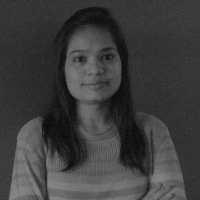
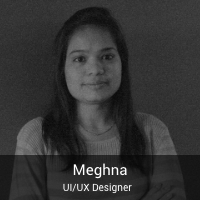
sadique | the team page design

Changed region(s): [[0.0, 0.75, 1.0, 1.0]]

diff --git a/styles/new-style.css b/styles/new-style.css
@@ -714,7 +714,7 @@ button.toast-close-button{padding:0;cursor:pointer;background:transparent;border
[5 lines of base64/hex data omitted]
 #toast-container.toast-top-center > div,
 #toast-container.toast-bottom-center > div{width:300px;margin:auto;}
 #toast-container.toast-top-full-width > div,
@@ -1131,9 +1131,9 @@ ul.reportint-list li {
 .theTeam h1{font-size:50px;font-family:'CambriaRegular';color:#26263A;position:relative;margin-bottom:65px;margin-top:0px;}
 .theTeam h1:after{position:absolute;width:80px;height:4px;background:var(--secondry-color);bottom:0;left:41%;content:"";top:56px;}
 .theTeam .product-info{font-size:18px;line-height:30px;margin:0;width:59%;vertical-align:middle;float:left;}
-.list_team{margin:0;padding:0;}
-.list_team li{display:inline-block;}
-figure.member{width:200px;height:200px;overflow:hidden;display:inline-block;margin-right:31px;margin-bottom:30px;position:relative;font-family:'CambriaRegular';}
+.list_team{margin: 0;padding: 0;display: flex;flex-wrap: wrap;justify-content: space-around;}
+.list_team li{display:inline-block;width: 200px;}
+figure.member{width:200px;height:200px;overflow:hidden;display:inline-block;margin-bottom:30px;position:relative;font-family:'CambriaRegular';}
 figure.member .member-footer{position:absolute;bottom:0;left:0;width:100%;background:rgba(4, 4, 4,0.6);padding:5px;color:#FFF;text-align:center;margin-bottom:0;line-height:16px;}
 .member-footer .name{font-size:15px;display:block;}
 .member-footer .designation{font-size:10px;}
@@ -1671,7 +1671,6 @@ div{box-sizing:border-box;}
 .d-flex{display:flex;flex-direction:column-reverse;}
 #transparency{padding-bottom:60px;}
 .founder .name{font-size:18px;}
-figure.member{margin-right:0;margin-bottom:0;}
 .about-content-body .mentors-info p{padding-right:0;}
 figure.member:last-child{margin-right:0 !important;}
 .about-content-body .mentors-info p span{font-size:18px;}

diff --git a/about.php b/about.php
@@ -596,137 +596,187 @@
                                                                   <img src="../assets/images/team/alok.png" alt="">
                                                                   <p class="member-footer">
                                                                         <span class="name">Alok</span>
-                                                                        <span class="designation">Product Associate  </span>
+                                                                        <span class="designation">Brand Head</span>
                                                                         </p>
                                                             </figure>
                                                             </li>
                                                             <li>
                                                                         <figure class="member">
+                                                                              <img src="../assets/images/team/sheba.png" alt="">
+                                                                              <p class="member-footer">
+                                                                                    <span class="name">Sheba</span>
+                                                                                    <span class="designation">Product Consultant</span>
+                                                                                    </p>
+                                                                        </figure>
+                                                            </li>
+                                                            <li>
+                                                                        <figure class="member">
+                                                                              <img src="../assets/images/team/fabien-varghese.png" alt="">
+                                                                              <p class="member-footer">
+                                                                                    <span class="name">Faiben</span>
+                                                                                    <span class="designation">Senior Sales Representative</span>
+                                                                                    </p>
+                                                                        </figure>
+                                                            </li>
+                                                            <li>
+                                                                        <figure class="member">
+                                                                              <img src="../assets/images/team/naman.png" alt="">
+                                                                              <p class="member-footer">
+                                                                                    <span class="name">Naman</span>
+                                                                                    <span class="designation">Sales Tyrant</span>
+                                                                                    </p>
+                                                                        </figure>
+                                                            </li>
+
+                                                            <li>
+                                                                        <figure class="member">
+                                                                              <img src="../assets/images/team/meghna.png" alt="">
+                                                                              <p class="member-footer">
+                                                                                    <span class="name">Meghna</span>
+                                                                                    <span class="designation">UI/UX Designer</span>
+                                                                                    </p>
+                                                                        </figure>
+                                                            </li>
+
+                                                            <li>
+                                                                        <figure class="member">
                                                                               <img src="../assets/images/team/gaurav.png" alt="">
                                                                               <p class="member-footer">
                                                                                     <span class="name">Gaurav</span>
-                                                                                    <span class="designation">Web Development Engineer</span>
+                                                                                    <span class="designation">Software Developer</span>
                                                                                     </p>
                                                                         </figure>
                                                             </li>
+
                                                             <li>
                                                                         <figure class="member">
-                                                                              <img src="../assets/images/team/nidhi.png" alt="">
+                                                                              <img src="../assets/images/team/aditya-soni.png" alt="">
                                                                               <p class="member-footer">
-                                                                                    <span class="name">Nidhi</span>
-                                                                                    <span class="designation">Programmer & Database Architect</span>
+                                                                                    <span class="name">Aditya</span>
+                                                                                    <span class="designation">Java Developer</span>
                                                                                     </p>
                                                                         </figure>
                                                             </li>
+
                                                             <li>
                                                                         <figure class="member">
-                                                                              <img src="../assets/images/team/mayank.png" alt="">
+                                                                              <img src="../assets/images/team/leena.png" alt="">
                                                                               <p class="member-footer">
-                                                                                    <span class="name">Mayank</span>
-                                                                                    <span class="designation">Software Engineer</span>
+                                                                                    <span class="name">Leena</span>
+                                                                                    <span class="designation">Java Developer</span>
                                                                                     </p>
                                                                         </figure>
                                                             </li>
+
                                                             <li>
-                                                                        <figure class="member m-r-zero">
-                                                                              <img src="../assets/images/team/sagar.png" alt="">
+                                                                        <figure class="member">
+                                                                              <img src="../assets/images/team/arpit.png" alt="">
                                                                               <p class="member-footer">
-                                                                                    <span class="name">Sagar</span>
-                                                                                    <span class="designation">QA Specialist</span>
+                                                                                    <span class="name">Arpit</span>
+                                                                                    <span class="designation">Sr. Software Developer</span>
+                                                                                    </p>
+                                                                        </figure>
+                                                            </li>
+
+                                                            <li>
+                                                                        <figure class="member">
+                                                                              <img src="../assets/images/team/shalini.png" alt="">
+                                                                              <p class="member-footer">
+                                                                                    <span class="name">Shalini</span>
+                                                                                    <span class="designation">UI Developer</span>
                                                                                     </p>
                                                                         </figure>
                                                             </li>
                                                   
                                                             <li>
                                                                   <figure class="member">
-                                                                        <img src="../assets/images/team/mustafa.png" alt="">
+                                                                        <img src="../assets/images/team/rohit.png" alt="">
                                                                         <p class="member-footer">
-                                                                              <span class="name">Mustafa</span>
-                                                                              <span class="designation">UI/UX Designer and Developer</span>
+                                                                              <span class="name">Rohit</span>
+                                                                              <span class="designation">Software Developer</span>
                                                                               </p>
                                                                   </figure>
                                                             </li>
                                                             <li>
                                                                   <figure class="member">
-                                                                        <img src="../assets/images/team/aditya.png" alt="">
+                                                                        <img src="../assets/images/team/sadique-sheikh.png" alt="">
+                                                                        <p class="member-footer">
+                                                                              <span class="name">Sadique</span>
+                                                                              <span class="designation">UI/UX & Frontend Developer</span>
+                                                                              </p>
+                                                                  </figure>
+                                                            </li>
+                                                            <li>
+                                                                  <figure class="member">
+                                                                        <img src="../assets/images/team/shubham.png" alt="">
+                                                                        <p class="member-footer">
+                                                                              <span class="name">Shubham</span>
+                                                                              <span class="designation">Full Stack Developer</span>
+                                                                              </p>
+                                                                  </figure>
+                                                            </li>
+                                                            <li>
+                                                                  <figure class="member">
+                                                                        <img src="../assets/images/team/aditya-chandeliya.png" alt="">
                                                                         <p class="member-footer">
                                                                               <span class="name">Aditya</span>
-                                                                              <span class="designation">Java Developer</span>
-                                                                              </p>
-                                                                  </figure>
-                                                            </li>
-                                                            <li>
-                                                                  <figure class="member">
-                                                                        <img src="../assets/images/team/leena.png" alt="">
-                                                                        <p class="member-footer">
-                                                                              <span class="name">Leena</span>
-                                                                              <span class="designation">Full Stack Developer</span>
-                                                                              </p>
-                                                                  </figure>
-                                                            </li>
-                                                            <li>
-                                                                  <figure class="member">
-                                                                        <img src="../assets/images/team/arpit.png" alt="">
-                                                                        <p class="member-footer">
-                                                                              <span class="name">Arpit</span>
-                                                                              <span class="designation">Full Stack Developer</span>
+                                                                              <span class="designation">Software Developer</span>
                                                                               </p>
                                                                   </figure>
                                                             </li>
                                                    
                                                             <li>
-                                                                  <figure class="member m-r-zero">
-                                                                        <img src="../assets/images/team/meghna.png" alt="">
+                                                                  <figure class="member">
+                                                                        <img src="../assets/images/team/rajat.png" alt="">
                                                                         <p class="member-footer">
-                                                                              <span class="name">Meghna</span>
-                                                                              <span class="designation">UI/UX Designer</span>
+                                                                              <span class="name">Rajat</span>
+                                                                              <span class="designation">Full Stack Developer</span>
                                                                               </p>
                                                                   </figure>
                                                             </li>
                                                             <li>
                                                                   <figure class="member">
-                                                                        <img src="../assets/images/team/sheba.png" alt="">
+                                                                        <img src="../assets/images/team/shehbaz.png" alt="">
                                                                         <p class="member-footer">
-                                                                              <span class="name">Sheba</span>
-                                                                              <span class="designation">Inbound Sales Executive </span>
+                                                                              <span class="name">Shehbaz</span>
+                                                                              <span class="designation">Sr. Software Developer</span>
+                                                                              </p>
+                                                                  </figure>
+                                                            </li>
+
+                                                            <li>
+                                                                  <figure class="member">
+                                                                        <img src="../assets/images/team/sameer.png" alt="">
+                                                                        <p class="member-footer">
+                                                                              <span class="name">Sameer</span>
+                                                                              <span class="designation">QA Lead</span>
+                                                                              </p>
+                                                                  </figure>
+                                                            </li>
+
+                                                            <li>
+                                                                  <figure class="member">
+                                                                        <img src="../assets/images/team/shreya.png" alt="">
+                                                                        <p class="member-footer">
+                                                                              <span class="name">Shreya</span>
+                                                                              <span class="designation">Software test Engineer</span>
+                                                                              </p>
+                                                                  </figure>
+                                                            </li>
+
+                                                            <li>
+                                                                  <figure class="member">
+                                                                        <img src="../assets/images/team/chetan.png" alt="">
+                                                                        <p class="member-footer">
+                                                                              <span class="name">Chetan</span>
+                                                                              <span class="designation">Software test Engineer</span>
                                                                               </p>
                                                                   </figure>
                                                             </li>
 
                                                             
-
-                                                            
-                                                            <!-- <li>
-                                                                  <figure class="member">
-                                                                        <img src="../assets/images/team/devendra.png" alt="">
-                                                                        <p class="member-footer">
-                                                                              <span class="name">Devendra</span>
-                                                                              <span class="designation">Sales Executive</span>
-                                                                              </p>
-                                                                  </figure>
-                                                            </li>
                                                             <li>
                                                                   <figure class="member">
-                                                                        <img src="../assets/images/team/pranay.png" alt="">
-                                                                        <p class="member-footer">
-                                                                              <span class="name">Pranay</span>
-                                                                              <span class="designation">Sales Executive</span>
-                                                                              </p>
-                                                                  </figure>
-                                                            </li> -->
-                                                            <li>
-                                                                  <figure class="member">
-                                                                        <img src="../assets/images/team/jinesh.png" alt="">
-                                                                        <p class="member-footer">
-                                                                              <span class="name">Jinesh</span>
-                                                                              <span class="designation">Content Writer</span>
-                                                                              </p>
-                                                                  </figure>
-                                                            </li>
-
-                                                            
-                                                            <li>
-                                                                  <figure class="member m-r-zero">
                                                                         <a href="https://www.walkover.in/career.php" target="_blank" class="empty-link"><span class="empty">Interested to <br>join our<br> team.</span></a>
                                                                   </figure>
                                                             </li>
@@ -804,7 +854,7 @@
                                                                </div>
                                                         </div>
                                                    </div>
-                                                   <div class="mentors-info m-t-70">
+                                                   <!-- <div class="mentors-info m-t-70">
                                                          <div class="row">
                                                                <div class="col-sm-6">
                                                                         <img src="/assets/images/team/priyanka.png" alt=""> 
@@ -828,7 +878,7 @@
                                                                         <img src="/assets/images/team/ravindra-big.png" alt="" class="pull-right"> 
                                                                </div>
                                                         </div>
-                                                   </div>
+                                                   </div> -->
                                                    <div class="mentors-info m-t-70">
                                                          <div class="row">
                                                                <div class="col-sm-6">
